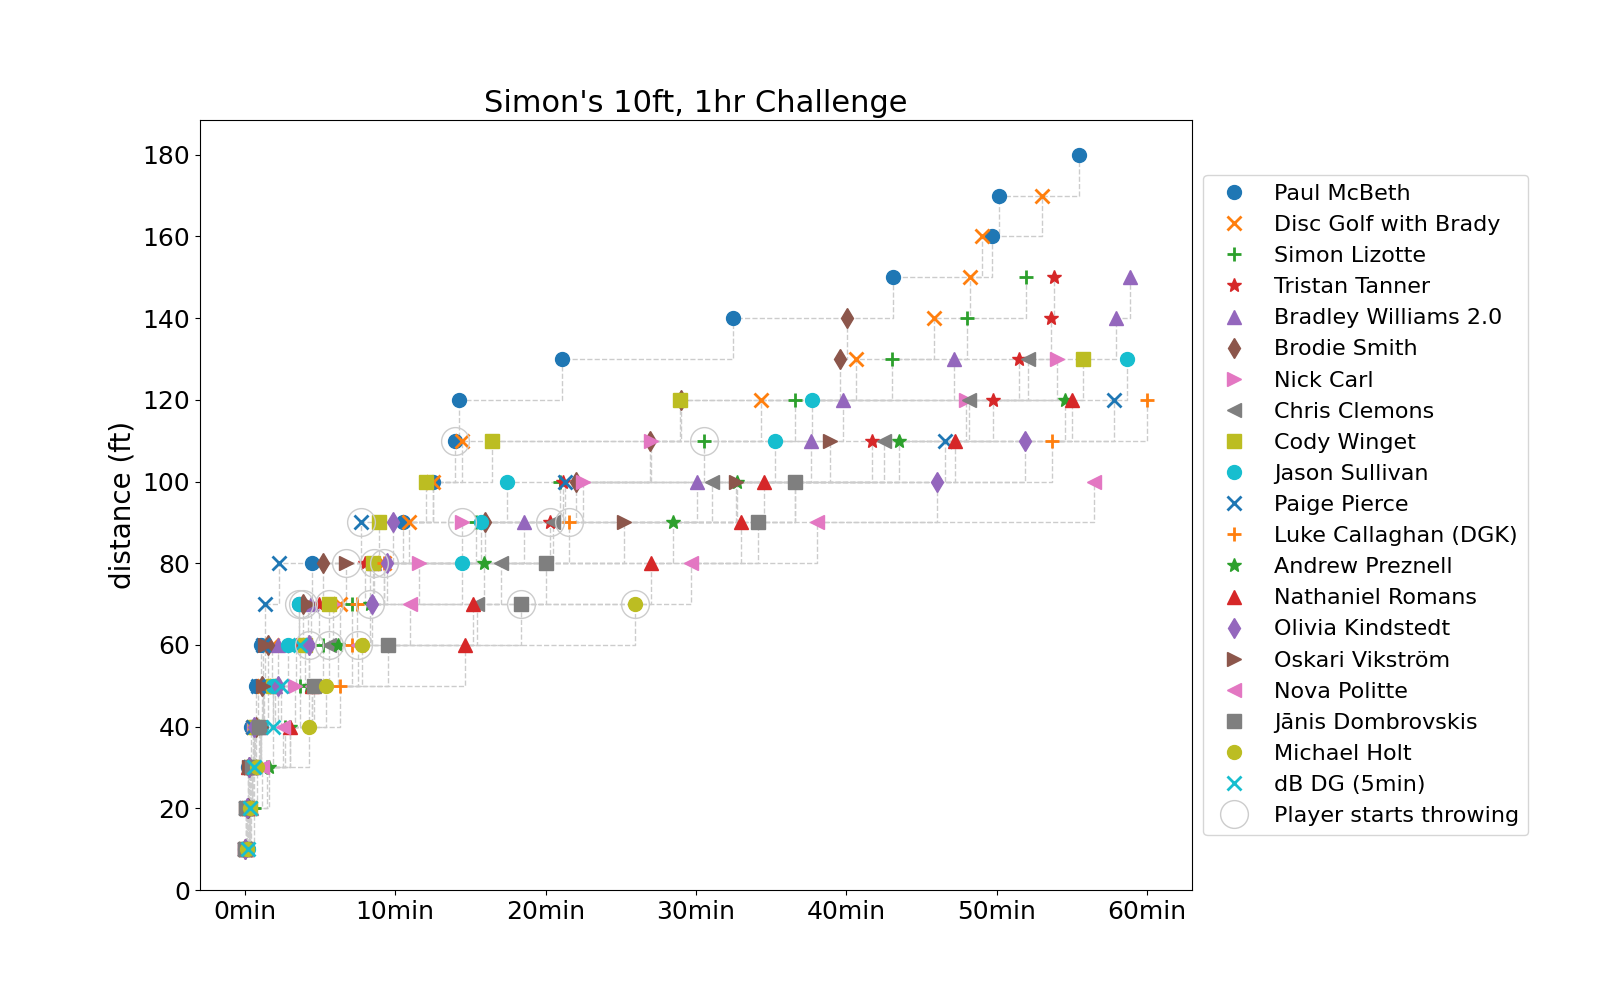
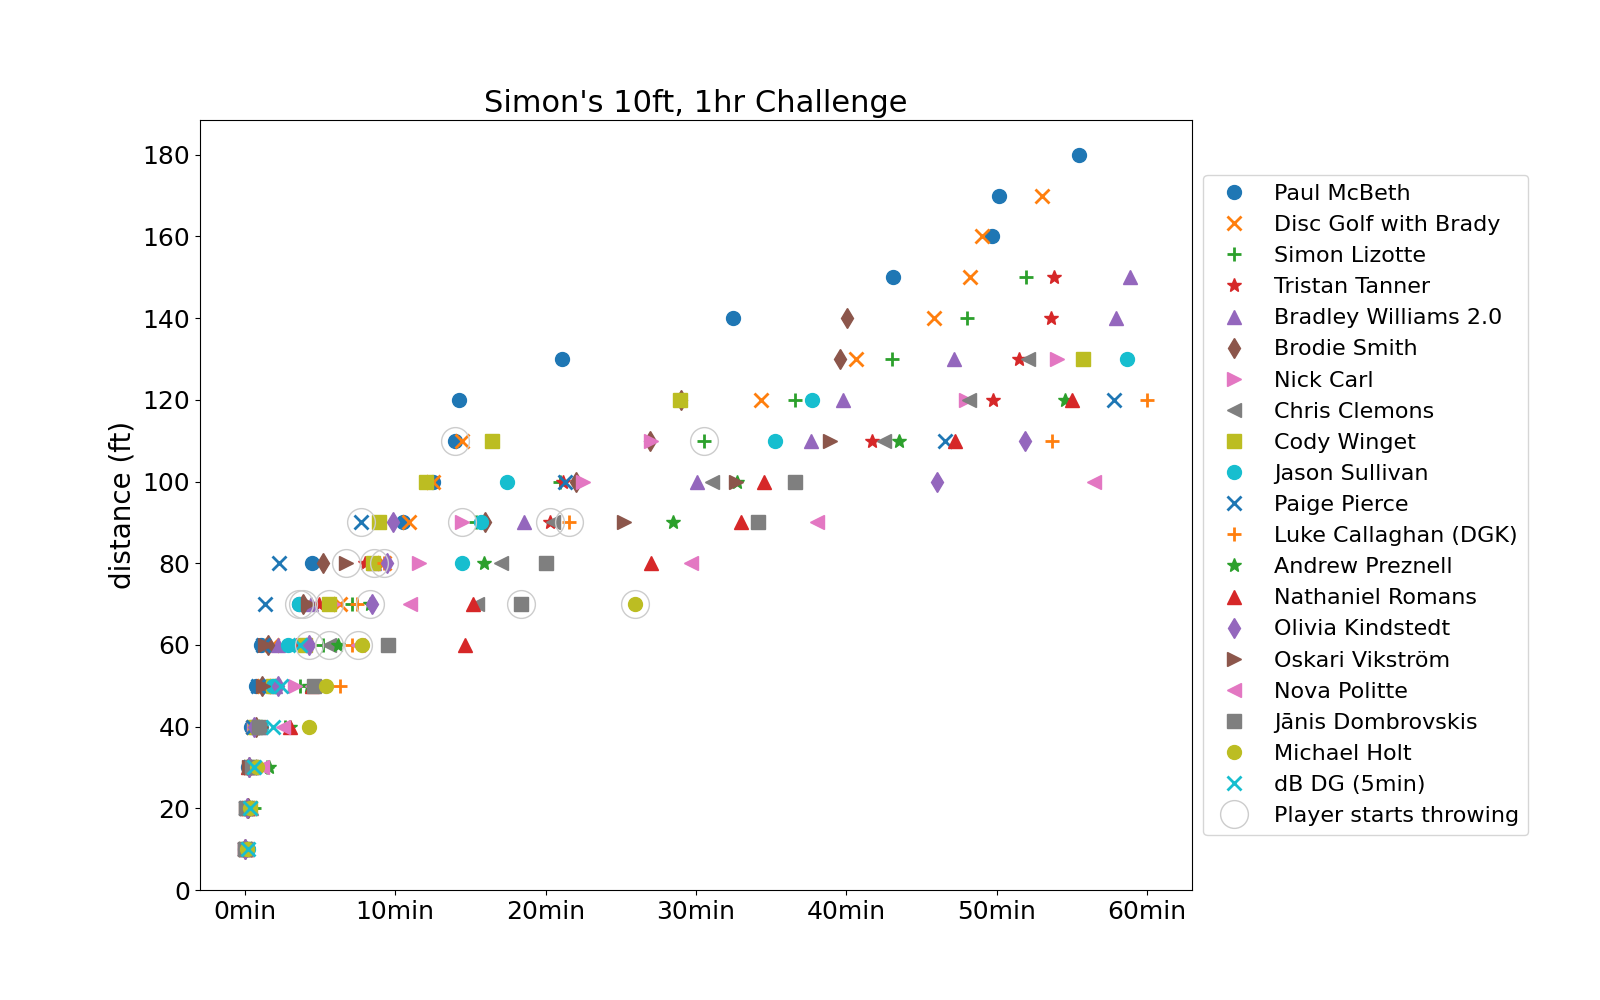
optionally show line; update plot

Changed region(s): [[0.1562, 0.682, 0.1875, 0.806]]

diff --git a/plot.py b/plot.py
@@ -1,6 +1,7 @@
 """Plot data from the 10ft challenge."""
 
 import itertools
+import sys
 
 import matplotlib
 import matplotlib.pyplot as plt
@@ -51,16 +52,17 @@ with open("data.csv") as datafile:
 
 # Plot, starting with a faint background line.
 figure, axis = plt.subplots()
-for player in players:
-    axis.step(
-        player.times,
-        player.distances,
-        "--",
-        label=None,
-        linewidth=1,
-        color="#cccccc",
-        where="post",
-    )
+if '--line' in sys.argv:
+    for player in players:
+        axis.plot(
+            player.times,
+            player.distances,
+            "--",
+            label=None,
+            linewidth=1,
+            color="#cccccc",
+            # where="post",
+        )
 
 # Then plot the markers on top.
 markerstyles = itertools.cycle(("o", "x", "+", "*", "^", "d", ">", "<", "s"))
@@ -70,7 +72,7 @@ for player in players:
         edge_width = 2
     else:
         edge_width = 1
-    axis.step(
+    axis.plot(
         player.times,
         player.distances,
         marker=marker,
@@ -78,14 +80,14 @@ for player in players:
         linewidth=0,
         markersize=10,
         markeredgewidth=edge_width,
-        where="post",
+        # where="post",
     )
 
 # Then circle the transition from putting -> throwing.
 for player in players:
     if player.starts_throwing_at:
         index = player.distances.index(player.starts_throwing_at)
-        axis.step(
+        axis.plot(
             player.times[index],
             player.starts_throwing_at,
             marker="o",
@@ -95,7 +97,7 @@ for player in players:
             markeredgewidth=1,
             fillstyle='none',
             color="#cccccc",
-            where="post",
+            # where="post",
         )
 
 # Finally plot one more entry as a hack to update the legend with some explanatory text.
